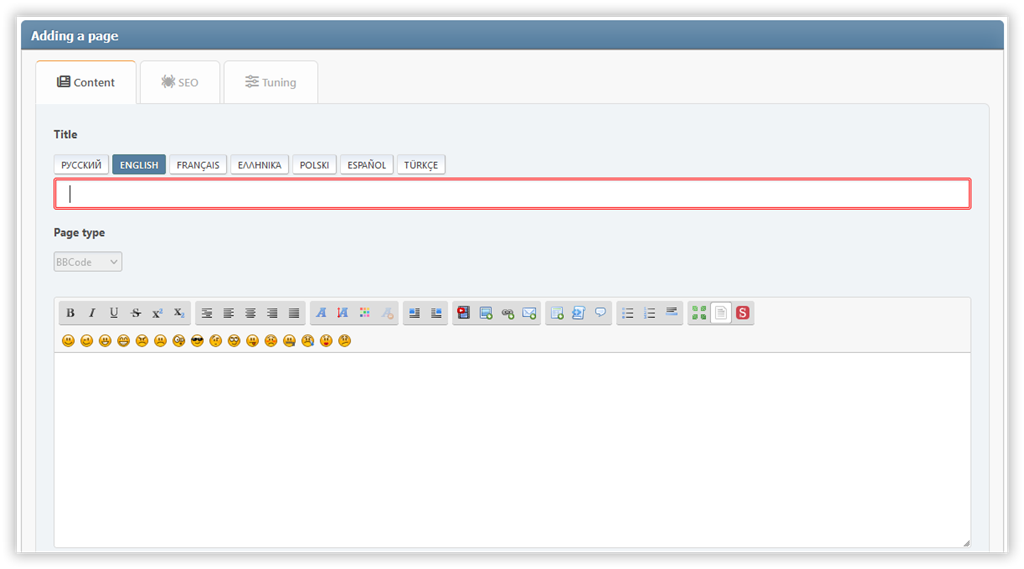
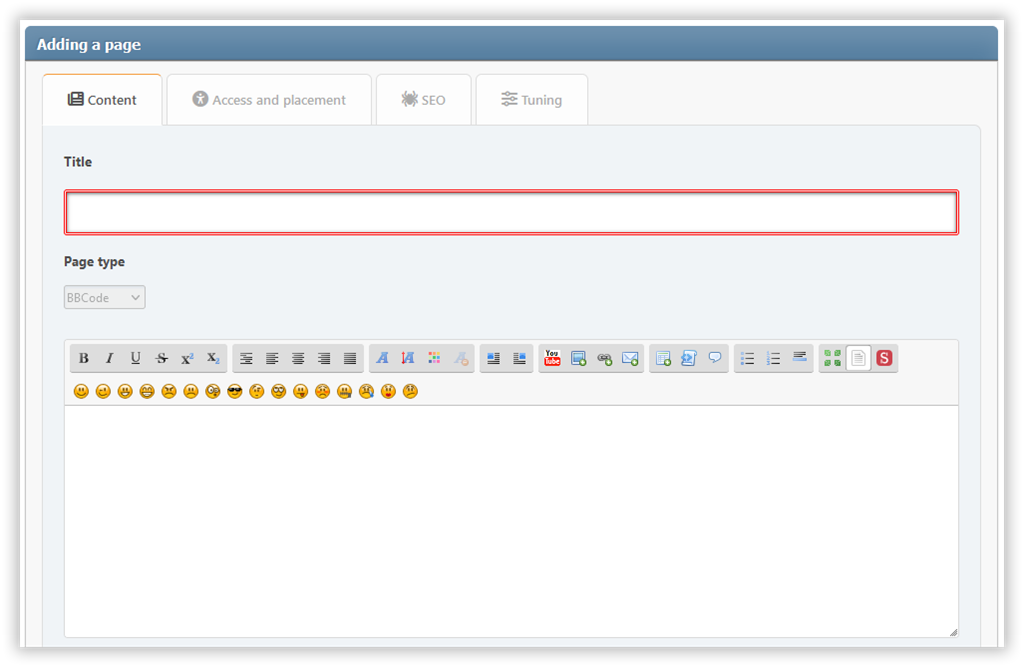
Update docs

Changed region(s): [[0.0, 0.0299, 1.0, 0.9561]]

diff --git a/website/docs/getting-started/installation.md b/website/docs/getting-started/installation.md
@@ -14,6 +14,6 @@ It is enough to download the archive with the portal files (in SMF this is calle
 ## Troubleshooting
 If your hosting is too "smart" with permissions and the portal files were not unpacked during installation, you need to manually extract the directories `Themes` and `Sources` from the modification archive into your forum folder (where the same Themes and Sources folders are already located, as well as files `cron.php`, `SSI.php`, `Settings.php`, etc) and set the appropriate permisssions. Most often it is `644`, `664` or `666` for files, and `755`, `775` or `777` for folders.
 
-Also you need to unpack the file `database.php` from modification archive to the root of your forum, set execution rights for it (`666`) and access it through the browser (you must be logged in as a forum administrator). This file contains instructions for creating the tables used by the portal. The message `Database changes are complete! Please wait...` will confirm the successful execution of the script.
+Also you need to unpack the file `database.php` from modification archive to the root of your forum, set execution rights for it (`666`) and access it through the browser (you must be logged in as a forum administrator). This file contains instructions for creating the tables used by the portal.
 
 If, after completing all the above steps, you still do not see the section with the portal settings in the admin panel, check for the line `$sourcedir/LightPortal/app.php` (variable `integrate_pre_include`) in the table `<your_prefix>settings` of your database. To do this, use the built-in search of the phpMyAdmin or another similar utility.

diff --git a/website/docs/pages/create-new.md b/website/docs/pages/create-new.md
@@ -13,6 +13,12 @@ Here you can configure:
 * page type
 * content
 
+## Access and placement
+Here you can configure:
+* permissions — specify who will access your page
+* category — if you like to keep things organized
+* transfer of authorship — if you want to change the author
+
 ## SEO tab
 Here you can configure:
 * alias — the page will be available at `?page=alias`
@@ -21,8 +27,6 @@ Here you can configure:
 
 ## Tuning tab
 Here you can configure:
-* permissions — specify who will access your page
-* category — if you like to keep things organized
 * date and time of publication — the page can be published on a schedule
 * display the title — can be disabled if you have your own header on the page
 * display the author and creation date

diff --git a/website/docs/plugins/create-new.md b/website/docs/plugins/create-new.md
@@ -7,7 +7,7 @@ Plugins are the extensions that expand the capabilities of the Light Portal. To 
 
 :::info
 
-Since version 1.9, the functionality for creating plugins has been moved to a separate plugin — **PluginMaker**. Download and enable it on the page _Admin -> Portal settings -> Plugins_.
+You can use the **PluginMaker** as a helper to create your own plugins. Download and enable it on the page _Admin -> Portal settings -> Plugins_.
 
 :::
 
